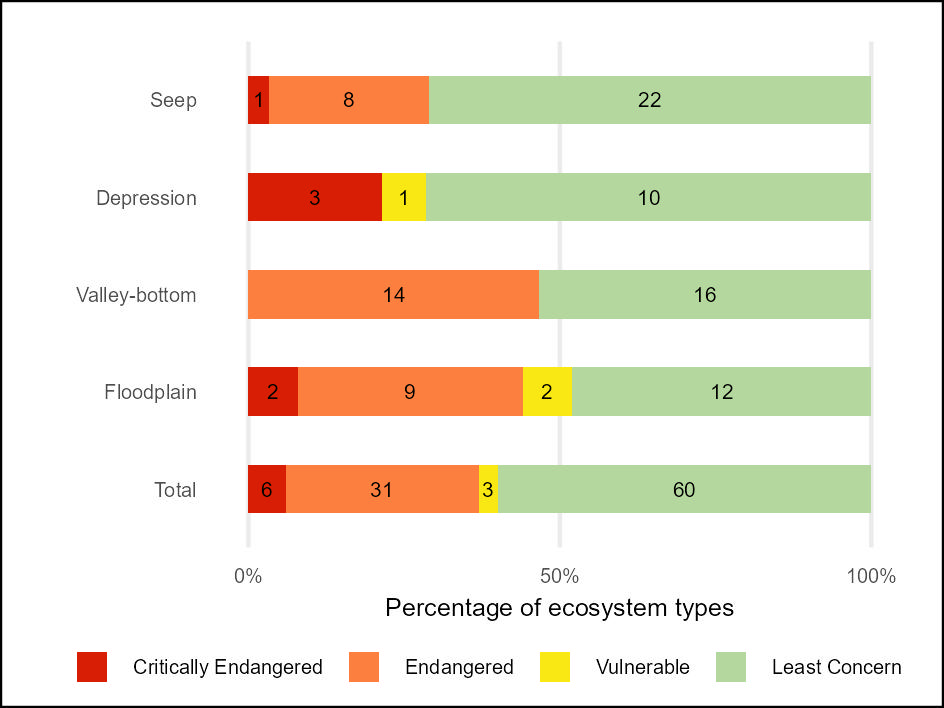
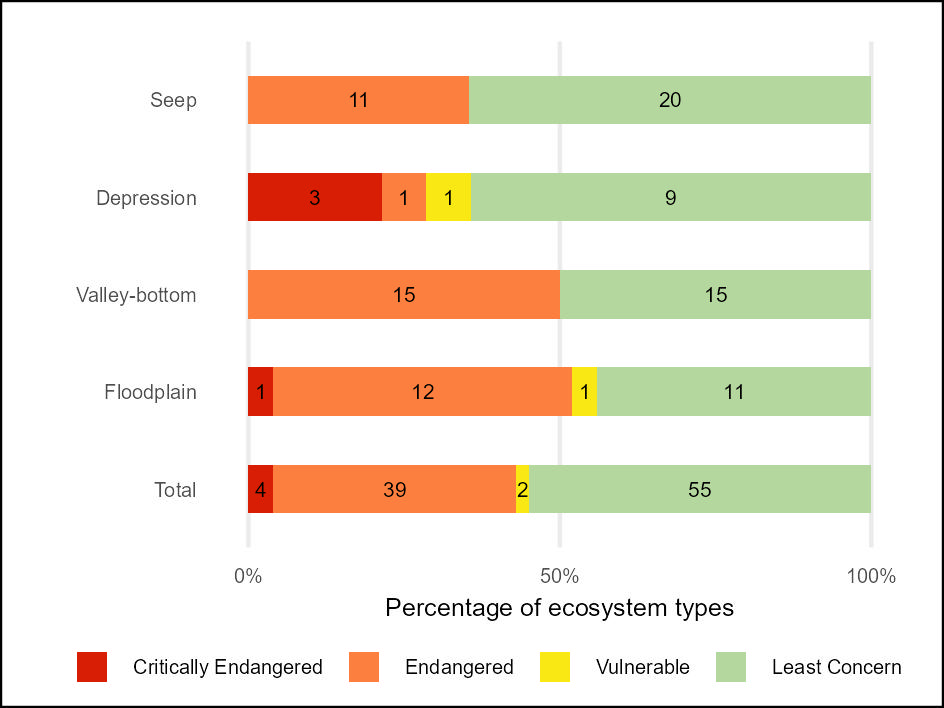
update B1i

diff --git a/README.md b/README.md
@@ -8,24 +8,24 @@ June 2025
 
 #### **Summary**
 
-This repository contains a workflow that results in the NBA 2025 Red List of Ecosystems indicators for (inland) Wetland Ecosystems of South Africa following the methods of [van Deventer et al., 2019](http://hdl.handle.net/20.500.12143/5847)
+This repository contains a workflow that results in the NBA 2025 Red List of Ecosystems indicators for (inland) Wetland Ecosystems of South Africa.
 
-The Quarto document [RLE_wet.qmd](RLE_wet.qmd) describes the import of the South African wetland database (version x ) prepared by SANBI. The data were imported using the sf package in R and summarised using the tidyverse.
+The Quarto document [RLE_wet.qmd](RLE_wet.qmd) describes the import of the South African wetland database (version x ) prepared by SANBI. The data were imported using the sf package in R and summarised using the tidyverse. The dataset covers XX inland wetland ecosystem types in South Africa and includes per-feature Present Ecological Stats (PES) scores (A-F; good - very poor) developed using the WET-Health framework ([Macfarlane et. al., 2020](https://frcsa.org.za/wp-content/uploads/2020/10/TT-820_Final-web.pdf)).
 
-The Red List of Ecosystems (known as Ecosystem Threat Status in South Africa) assesses the risk of collapse of each ecosystem type based on a range of criteria on extent, condition and pressures faced by each ecosystem type. For consistency with past NBAs this assessment follows the methods developed by Nel et al., 2011 and modified by [van Deventer et al., 2019](http://hdl.handle.net/20.500.12143/5847). Each of the 100 wetland ecosystem types were assigned to one of the four risk categories: Critically Endangered, Endangered, Vulnerable and Least Concern.
+The Red List of Ecosystems (also known as Ecosystem Threat Status in South Africa) assesses the risk of collapse of each ecosystem type based on a range of criteria on extent, condition and pressures faced by each ecosystem type.
 
-The analysis approach of van Deventer et al., 2019 uses the proportion of each ecosystem type that is in a good - fair condition (Wet Health class A, B and C) and a set of thresholds. If less than 20% of a type (measured by extent) is in an A or B condition then the type is categorised as Critically Endangered; if between 20-35% of the type is in A or B condition then the type is categorised as Endangered; if less than 60% of the type is in A or B or C condition then the type is categorised as Vulnerable; if none of these thresholds are crossed then the type is Least Concern.
+The IUCN RLE (v2) approach was followed and Criterion D3 was applied to the Present Ecological State (PES) data such that Severity \>=90% was assigned to PES classes E-F; Severity \>=70% was assigned to PES classes D-F; Severity \>=50% was assigned to PES classes C-F. Criterion B1i was applied using EOO calculations with ongoing decline defined as a decline in the extent of good/fair condition wetland extent (PES Classes A, B, C) from the previous PES assessment period. Each of the XX wetland ecosystems types were assigned to one of the four risk categories: Critically Endangered, Endangered, Vulnerable and Least Concern. The highest risk category for these two criteria is selected as the threat / risk status for each river type.
 
-The IUCN RLE approach was also followed and Criterion D3 was applied to the Present Ecological State (PES) data such that Severity \>=90% was assigned to classes E-F; Severity \>=70% was assigned to classes D-F; Severity \>=50% was assigned to class C-F. Criterion B1i was applied using EOO calculations and ongoing decline was defined as PES D-F \>= 70% extent.
+For consistency with past assessments the South African Ecosystem Threat Status framework (developed by [Nel et al., 2010](DOI:%2010.1111/j.1472-4642.2006.00308.x) and modified by [van Deventer et al., 2019](http://hdl.handle.net/20.500.12143/5847)) was applied in a separate assessment. This approach uses the proportion of each ecosystem type that is in a good - fair condition (PES class A B and C) and a set of thresholds. If less than 20% of a type (measured by length of river segment) is in a A or B condition then the type is categorised as Critically Endangered; if between 20-35% of the type is in A or B condition then the type is categorised as Endangered; If less than 60% of the type is in A or or C condition then the type is categorised as Vulnerable; if none of these thresholds are crossed then the type is Least Concern. The results are referred to as ETS (Ecosystem Threat Status) to differentiate them from RLE results.
 
 #### **Results:**
 
-Overall per-ecosystem type Threat Status 2024 results for wetland using South African methods (Van Deventer et.al., 2019) and IUCN RLE methods [rle_wet_metrics_per_type.csv](outputs/rle_wet_metrics_per_type.csv)
-
-Summary table - count of wetland ecosystem types per HGM zone per South African ETS category [rle24sa_wet_count.csv](outputs/rle24sa_wet_count.csv)
+The assessment results per inland wetland ecosystem type for both the IUCN RLE and South African ETS are presented here [rle_wet_metrics_per_type.csv](outputs/rle_wet_metrics_per_type.csv)
 
 Summary table - count of wetland ecosystem types per HGM zone per IUCN RLE category [rle24_wet_count.csv](outputs/rle24_wet_count.csv)
 
+Summary table - count of wetland ecosystem types per HGM zone per South African ETS category [rle24sa_wet_count.csv](outputs/rle24sa_wet_count.csv)
+
 | RLE 2024 - Wetlands | ETS 2024 - Wetlands |
-|----|----|
+|------------------------------------|------------------------------------|
 | ![](outputs/rle24_wet_barplot_count.jpeg) | ![](outputs/rle24sa_wet_barplot_count.jpeg) |
